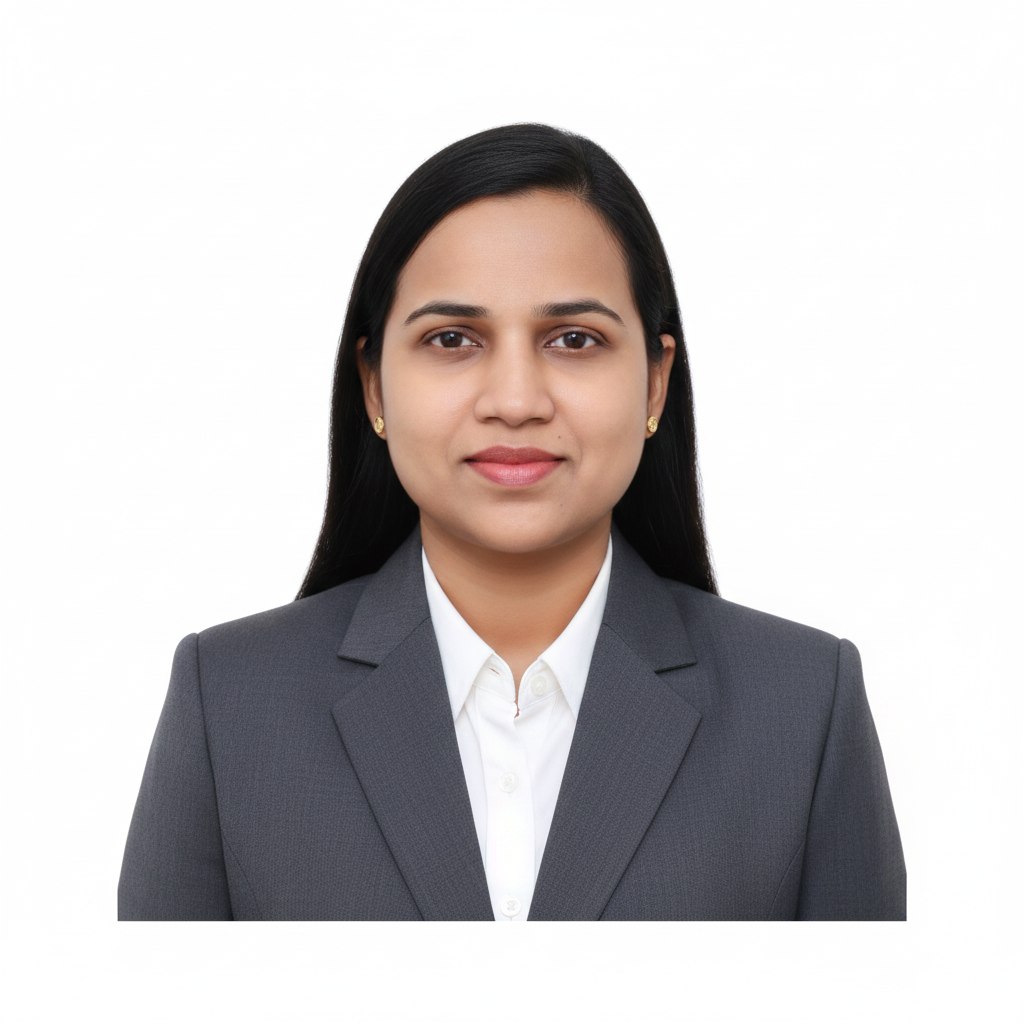
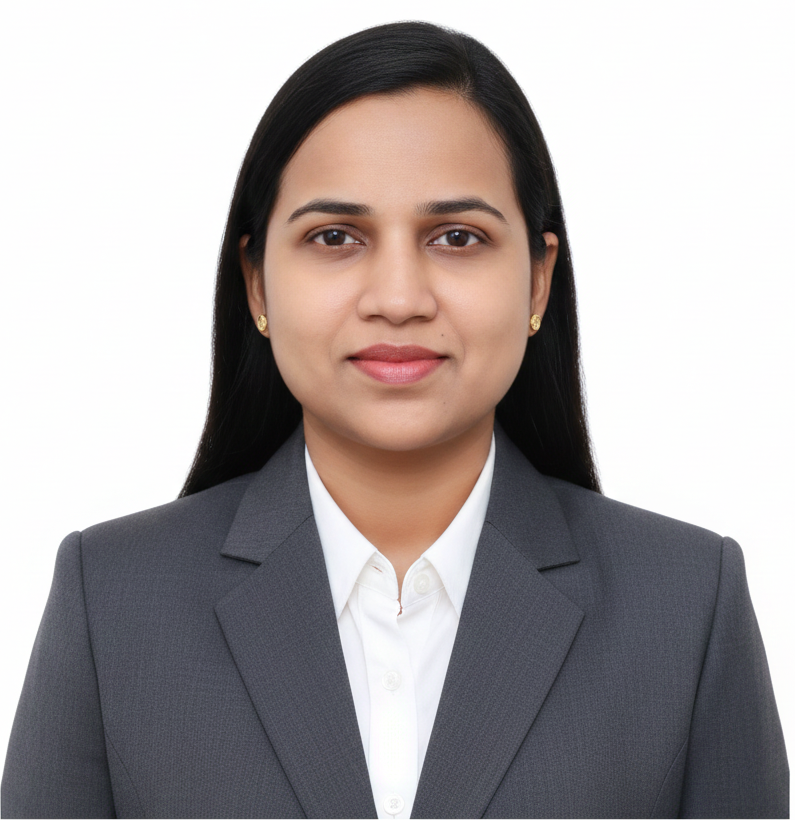
photo update

diff --git a/index.html b/index.html
@@ -338,7 +338,7 @@
         <div class="photo-wrapper">
           <div
             class="photo"
-            style="background-image: url('/cv/assets/photo_2.jpg')"
+            style="background-image: url('/cv/assets/photo_2.png')"
           ></div>
         </div>
       </header>
